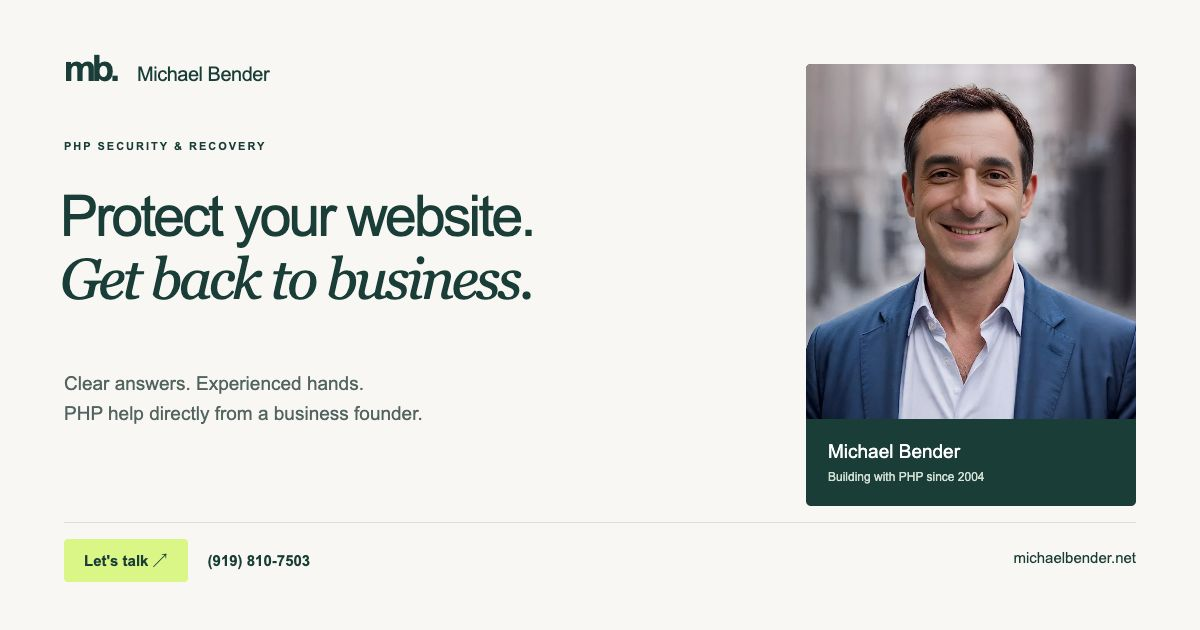
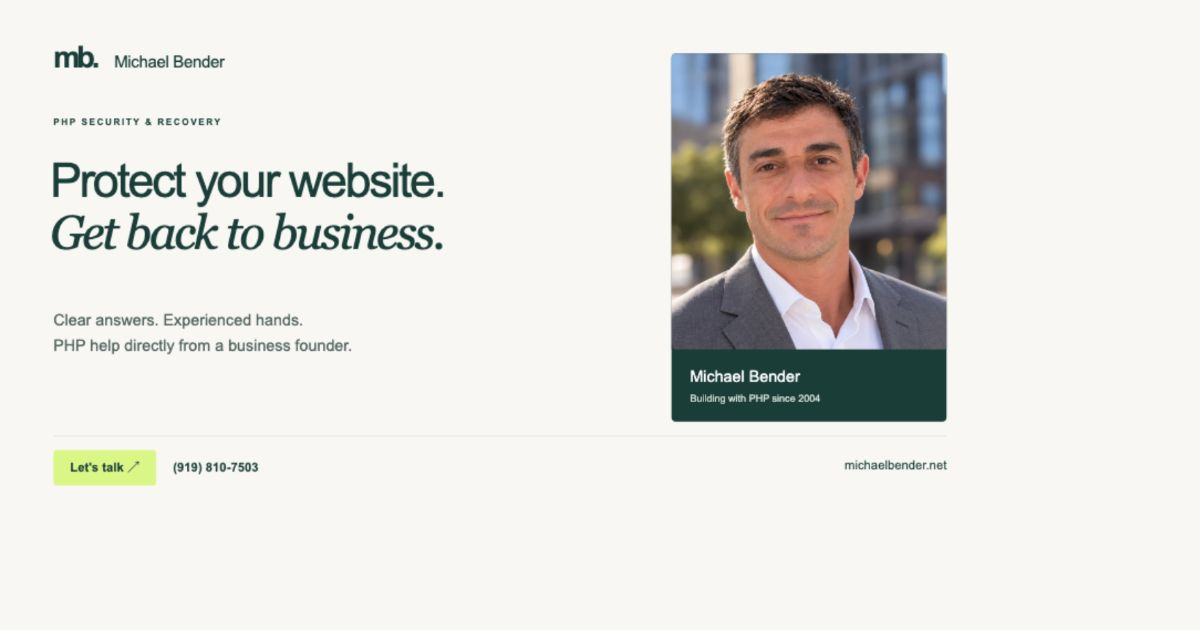
Use Michael's supplied outdoor headshot throughout the redesign

diff --git a/index.html b/index.html
@@ -17,7 +17,7 @@
 <header class="site-header"><div class="wrap header-inner"><a class="brand" href="/" aria-label="Michael Bender home"><span class="brand-mark">mb<span>.</span></span><span>Michael Bender<small>PHP SECURITY & RECOVERY</small></span></a><nav class="desktop-nav" aria-label="Primary"><a href="#services">How I help</a><a href="#process">The process</a><a href="/about/">About Michael</a></nav><a class="header-call" href="tel:+19198107503">(919) 810-7503</a><a class="btn btn-dark header-cta" href="#contact">Let's talk <span aria-hidden="true">↗</span></a><button class="menu-toggle" data-menu-toggle aria-controls="mobile-menu" aria-expanded="false" aria-label="Open menu"><span></span><span></span></button></div><nav id="mobile-menu" class="mobile-menu" aria-label="Mobile" hidden><a href="#services">How I help</a><a href="#process">The process</a><a href="/about/">About Michael</a><a href="/pricing/">Pricing</a><a href="/updates/">Security briefing</a><a href="#contact">Request a free call</a></nav></header>
 <main id="main">
 <div class="security-notice"><div class="wrap notice-inner"><span class="notice-label"><span class="status-dot"></span>PHP SECURITY ALERT</span><span>Critical security updates are available. Your website may need action.</span><a href="#risk">What this means for you <span aria-hidden="true">↗</span></a></div></div>
-<section class="hero"><div class="wrap hero-grid"><div class="hero-copy"><p class="eyebrow"><span class="eyebrow-line"></span>FOR BUSINESS OWNERS. IN PLAIN ENGLISH.</p><h1>Protect your website.<br><em>Get back to business.</em></h1><p class="lead">A critical flaw in PHP could put your website, customer data, and daily operations at risk. I'll help you understand where you stand, fix what's needed, and move forward with confidence.</p><p class="hero-reassurance">Custom software. WordPress. An application no one remembers how to maintain. Let's figure it out together.</p><div class="button-row"><a class="btn btn-dark" href="tel:+19198107503"><svg class="icon" aria-hidden="true"><use href="#phone"/></svg>Call Michael now <span aria-hidden="true">↗</span></a><a class="btn btn-outline" href="#contact">Request a free call <svg class="icon" aria-hidden="true"><use href="#arrow"/></svg></a></div><p class="hero-phone"><a href="tel:+19198107503">(919) 810-7503</a><span>Free first conversation. No obligation.</span></p><div class="hero-proof"><span><svg class="icon" aria-hidden="true"><use href="#check"/></svg>PHP since 2004</span><span><svg class="icon" aria-hidden="true"><use href="#check"/></svg>Work directly with me</span><span><svg class="icon" aria-hidden="true"><use href="#check"/></svg>Clear scope & pricing</span></div></div><div class="hero-person"><div class="portrait-frame"><img src="/img/michael-bender.webp" width="800" height="800" alt="Michael Bender, PHP developer and business founder" fetchpriority="high"><span class="portrait-caption">EXPERIENCE YOU CAN PUT A FACE TO.</span></div><div class="person-card"><div><p class="person-name">Michael Bender</p><p>PHP developer & business founder</p></div><span class="person-symbol" aria-hidden="true">↗</span></div><p class="portrait-note">“You don't need to know the technical terms.<br>You just need someone you can trust to handle it.”</p></div></div></section>
+<section class="hero"><div class="wrap hero-grid"><div class="hero-copy"><p class="eyebrow"><span class="eyebrow-line"></span>FOR BUSINESS OWNERS. IN PLAIN ENGLISH.</p><h1>Protect your website.<br><em>Get back to business.</em></h1><p class="lead">A critical flaw in PHP could put your website, customer data, and daily operations at risk. I'll help you understand where you stand, fix what's needed, and move forward with confidence.</p><p class="hero-reassurance">Custom software. WordPress. An application no one remembers how to maintain. Let's figure it out together.</p><div class="button-row"><a class="btn btn-dark" href="tel:+19198107503"><svg class="icon" aria-hidden="true"><use href="#phone"/></svg>Call Michael now <span aria-hidden="true">↗</span></a><a class="btn btn-outline" href="#contact">Request a free call <svg class="icon" aria-hidden="true"><use href="#arrow"/></svg></a></div><p class="hero-phone"><a href="tel:+19198107503">(919) 810-7503</a><span>Free first conversation. No obligation.</span></p><div class="hero-proof"><span><svg class="icon" aria-hidden="true"><use href="#check"/></svg>PHP since 2004</span><span><svg class="icon" aria-hidden="true"><use href="#check"/></svg>Work directly with me</span><span><svg class="icon" aria-hidden="true"><use href="#check"/></svg>Clear scope & pricing</span></div></div><div class="hero-person"><div class="portrait-frame"><img src="/img/michael-bender.webp" width="1000" height="801" alt="Michael Bender, PHP developer and business founder" fetchpriority="high"><span class="portrait-caption">EXPERIENCE YOU CAN PUT A FACE TO.</span></div><div class="person-card"><div><p class="person-name">Michael Bender</p><p>PHP developer & business founder</p></div><span class="person-symbol" aria-hidden="true">↗</span></div><p class="portrait-note">“You don't need to know the technical terms.<br>You just need someone you can trust to handle it.”</p></div></div></section>
 <div class="platform-rail"><div class="wrap"><span>HELP FOR THE SOFTWARE<br>YOUR BUSINESS RUNS ON</span><div class="platform-names"><span>Custom PHP</span><span class="wordpress">WordPress</span><span>WooCommerce</span><span>Laravel</span><span>Drupal</span><span>Magento</span></div></div></div>
 <section class="section risk-section" id="risk"><div class="wrap risk-grid"><div><p class="eyebrow">THE ISSUE, WITHOUT THE JARGON</p><h2>Your site can look fine.<br><em>And still be exposed.</em></h2><p class="section-intro">PHP is the software behind many websites and business applications. Newly disclosed security flaws, known as PHP2Shell, can let attackers take control of an affected server without signing in.</p><p>The problem is in the software underneath your site. Updating a page, changing a password, or having good website code does not fix it. The server needs to be checked and properly updated.</p><a class="text-link light" href="/updates/">Read the security briefing <span aria-hidden="true">↗</span></a></div><div class="risk-detail"><div class="risk-summary"><svg class="icon" aria-hidden="true"><use href="#shield"/></svg><span>WHY ACT NOW</span><time datetime="2026-10-21">21 OCT 2026</time></div><div class="risk-item"><span>01</span><div><h3>Your customers' trust</h3><p>An exposed system can put the information customers share with you at risk.</p></div></div><div class="risk-item"><span>02</span><div><h3>Your ability to do business</h3><p>Your bookings, orders, customer portal, or internal tools may depend on the same server.</p></div></div><div class="risk-item"><span>03</span><div><h3>Your options get better when you act early</h3><p>Confirming protection now is easier to plan around than discovering a compromise later.</p></div></div><a class="source-link" href="https://www.php.net/archive/2026.php" target="_blank" rel="noopener">Based on the PHP project's security advisory <span aria-hidden="true">↗</span></a></div></div></section>
 <section class="section" id="services"><div class="wrap"><div class="section-heading"><div><p class="eyebrow">A PRACTICAL WAY FORWARD</p><h2>Whatever you're running,<br><em>start with a clear answer.</em></h2></div><p>I work with your existing software and hosting. We decide what needs attention before making changes.</p></div><div class="service-list"><article class="service-row"><span class="number">01 /</span><h3>Find out if you're at risk.</h3><p>I'll identify what your site runs on, check its protection, and explain what it means for your business.</p><span class="service-tag">ASSESS & EXPLAIN</span></article><article class="service-row"><span class="number">02 /</span><h3>Get the right fix in place.</h3><p>Security updates, hosting coordination, and testing of the parts your business depends on.</p><span class="service-tag">PROTECT & REPAIR</span></article><article class="service-row"><span class="number">03 /</span><h3>Make a plan for older software.</h3><p>If an update is more complicated, I'll lay out safe options and a path forward that respects your business.</p><span class="service-tag">STABILIZE & PLAN</span></article></div><div class="software-check"><div><p class="eyebrow">SOUND FAMILIAR?</p><h3>“I don't even know if we use PHP.”</h3><p>That's a perfectly good place to start. Choose the description that fits best.</p></div><div class="software-options"><div class="choice-buttons" role="group" aria-label="What kind of software do you use?"><button type="button" class="choice active" data-software="custom" aria-pressed="true">Custom software</button><button type="button" class="choice" data-software="wordpress" aria-pressed="false">WordPress / a store</button><button type="button" class="choice" data-software="unsure" aria-pressed="false">I'm not sure</button></div><p id="software-answer" aria-live="polite">A customer portal, booking system, or internal tool built for your business may use PHP, even if its address doesn't end in .php. I can help identify it and check what needs attention.</p><a class="text-link" href="#contact">Let's look at it together <span aria-hidden="true">↗</span></a></div></div></div></section>

diff --git a/about/index.html b/about/index.html
@@ -36,7 +36,7 @@
           <p>You shouldn’t have to become a software expert to protect the business you’ve built. You need someone who can explain what matters, take responsibility, and help you move forward.</p>
           <div class="button-row"><a class="btn btn-dark" href="tel:+19198107503">Call (919) 810-7503 <span aria-hidden="true">↗</span></a><a class="btn btn-outline" href="/#contact">Arrange a conversation</a></div>
         </div>
-        <figure class="portrait"><img src="/img/michael-bender.webp" width="800" height="800" alt="Michael Bender"><figcaption>Michael Bender · Software founder &amp; PHP consultant</figcaption></figure>
+        <figure class="portrait"><img src="/img/michael-bender.webp" width="1000" height="801" alt="Michael Bender"><figcaption>Michael Bender · Software founder &amp; PHP consultant</figcaption></figure>
       </div>
     </section>
     <section class="section">

diff --git a/STATUS.md b/STATUS.md
@@ -10,6 +10,10 @@ Rebuilt homepage and all four supporting pages around nontechnical owners: calm 
 
 Added AGENTS.md and this STATUS.md (both previously absent). Personal PROJECTS.md description refreshed.
 
+## Latest update
+
+2026-10-21: Replaced the original headshot with Michael's supplied outdoor corporate portrait on the homepage, About page, and structured-data image URLs. Optimized WebP/JPEG variants, corrected intrinsic dimensions, and regenerated the sharing artwork (including the legacy PNG URL). Desktop portrait placement checked. Update stays in draft PR #1; production is unchanged.
+
 ## Verification
 
 Static checks passed for five pages: resources and internal anchors, unique IDs, image alt text, H1 count, valid JSON-LD. JavaScript syntax and diff whitespace passed. Desktop and 390px phone visual checks; no horizontal overflow on the five pages. Menu, landscape scrolling, software guidance, FAQ expansion, and preferred-time form behavior checked. No inquiry submitted, so FormSubmit delivery remains unverified.
